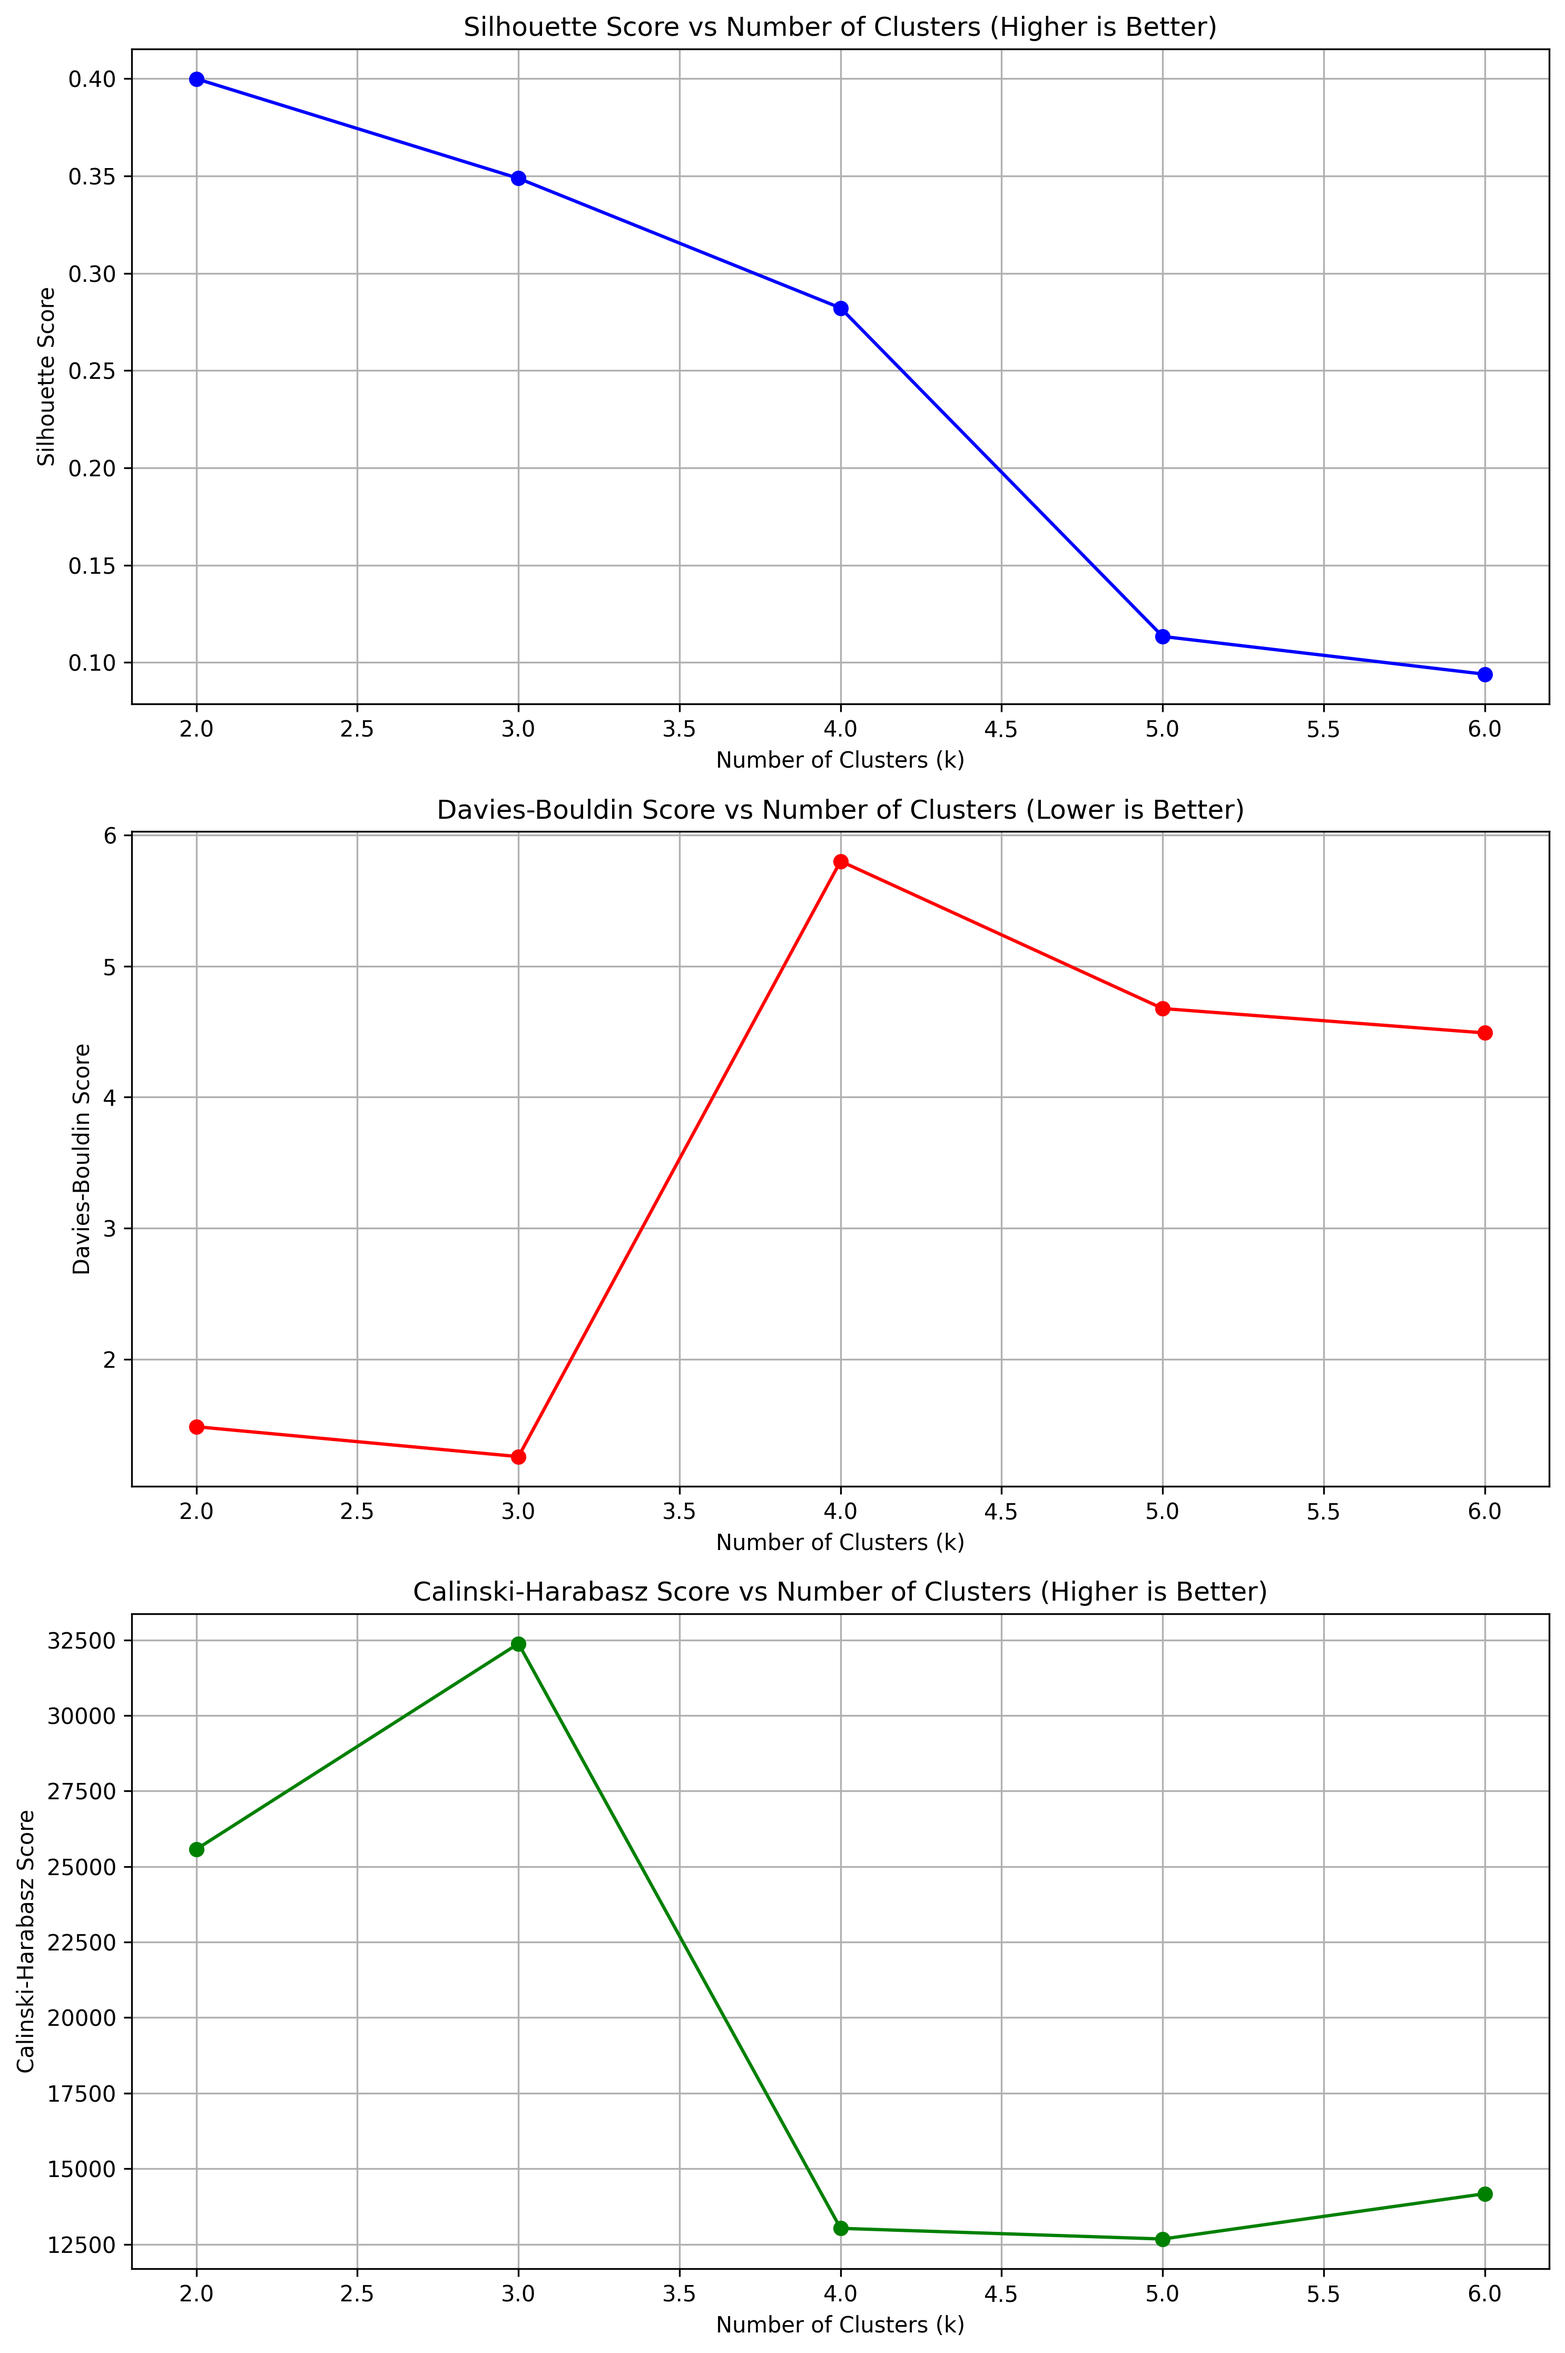
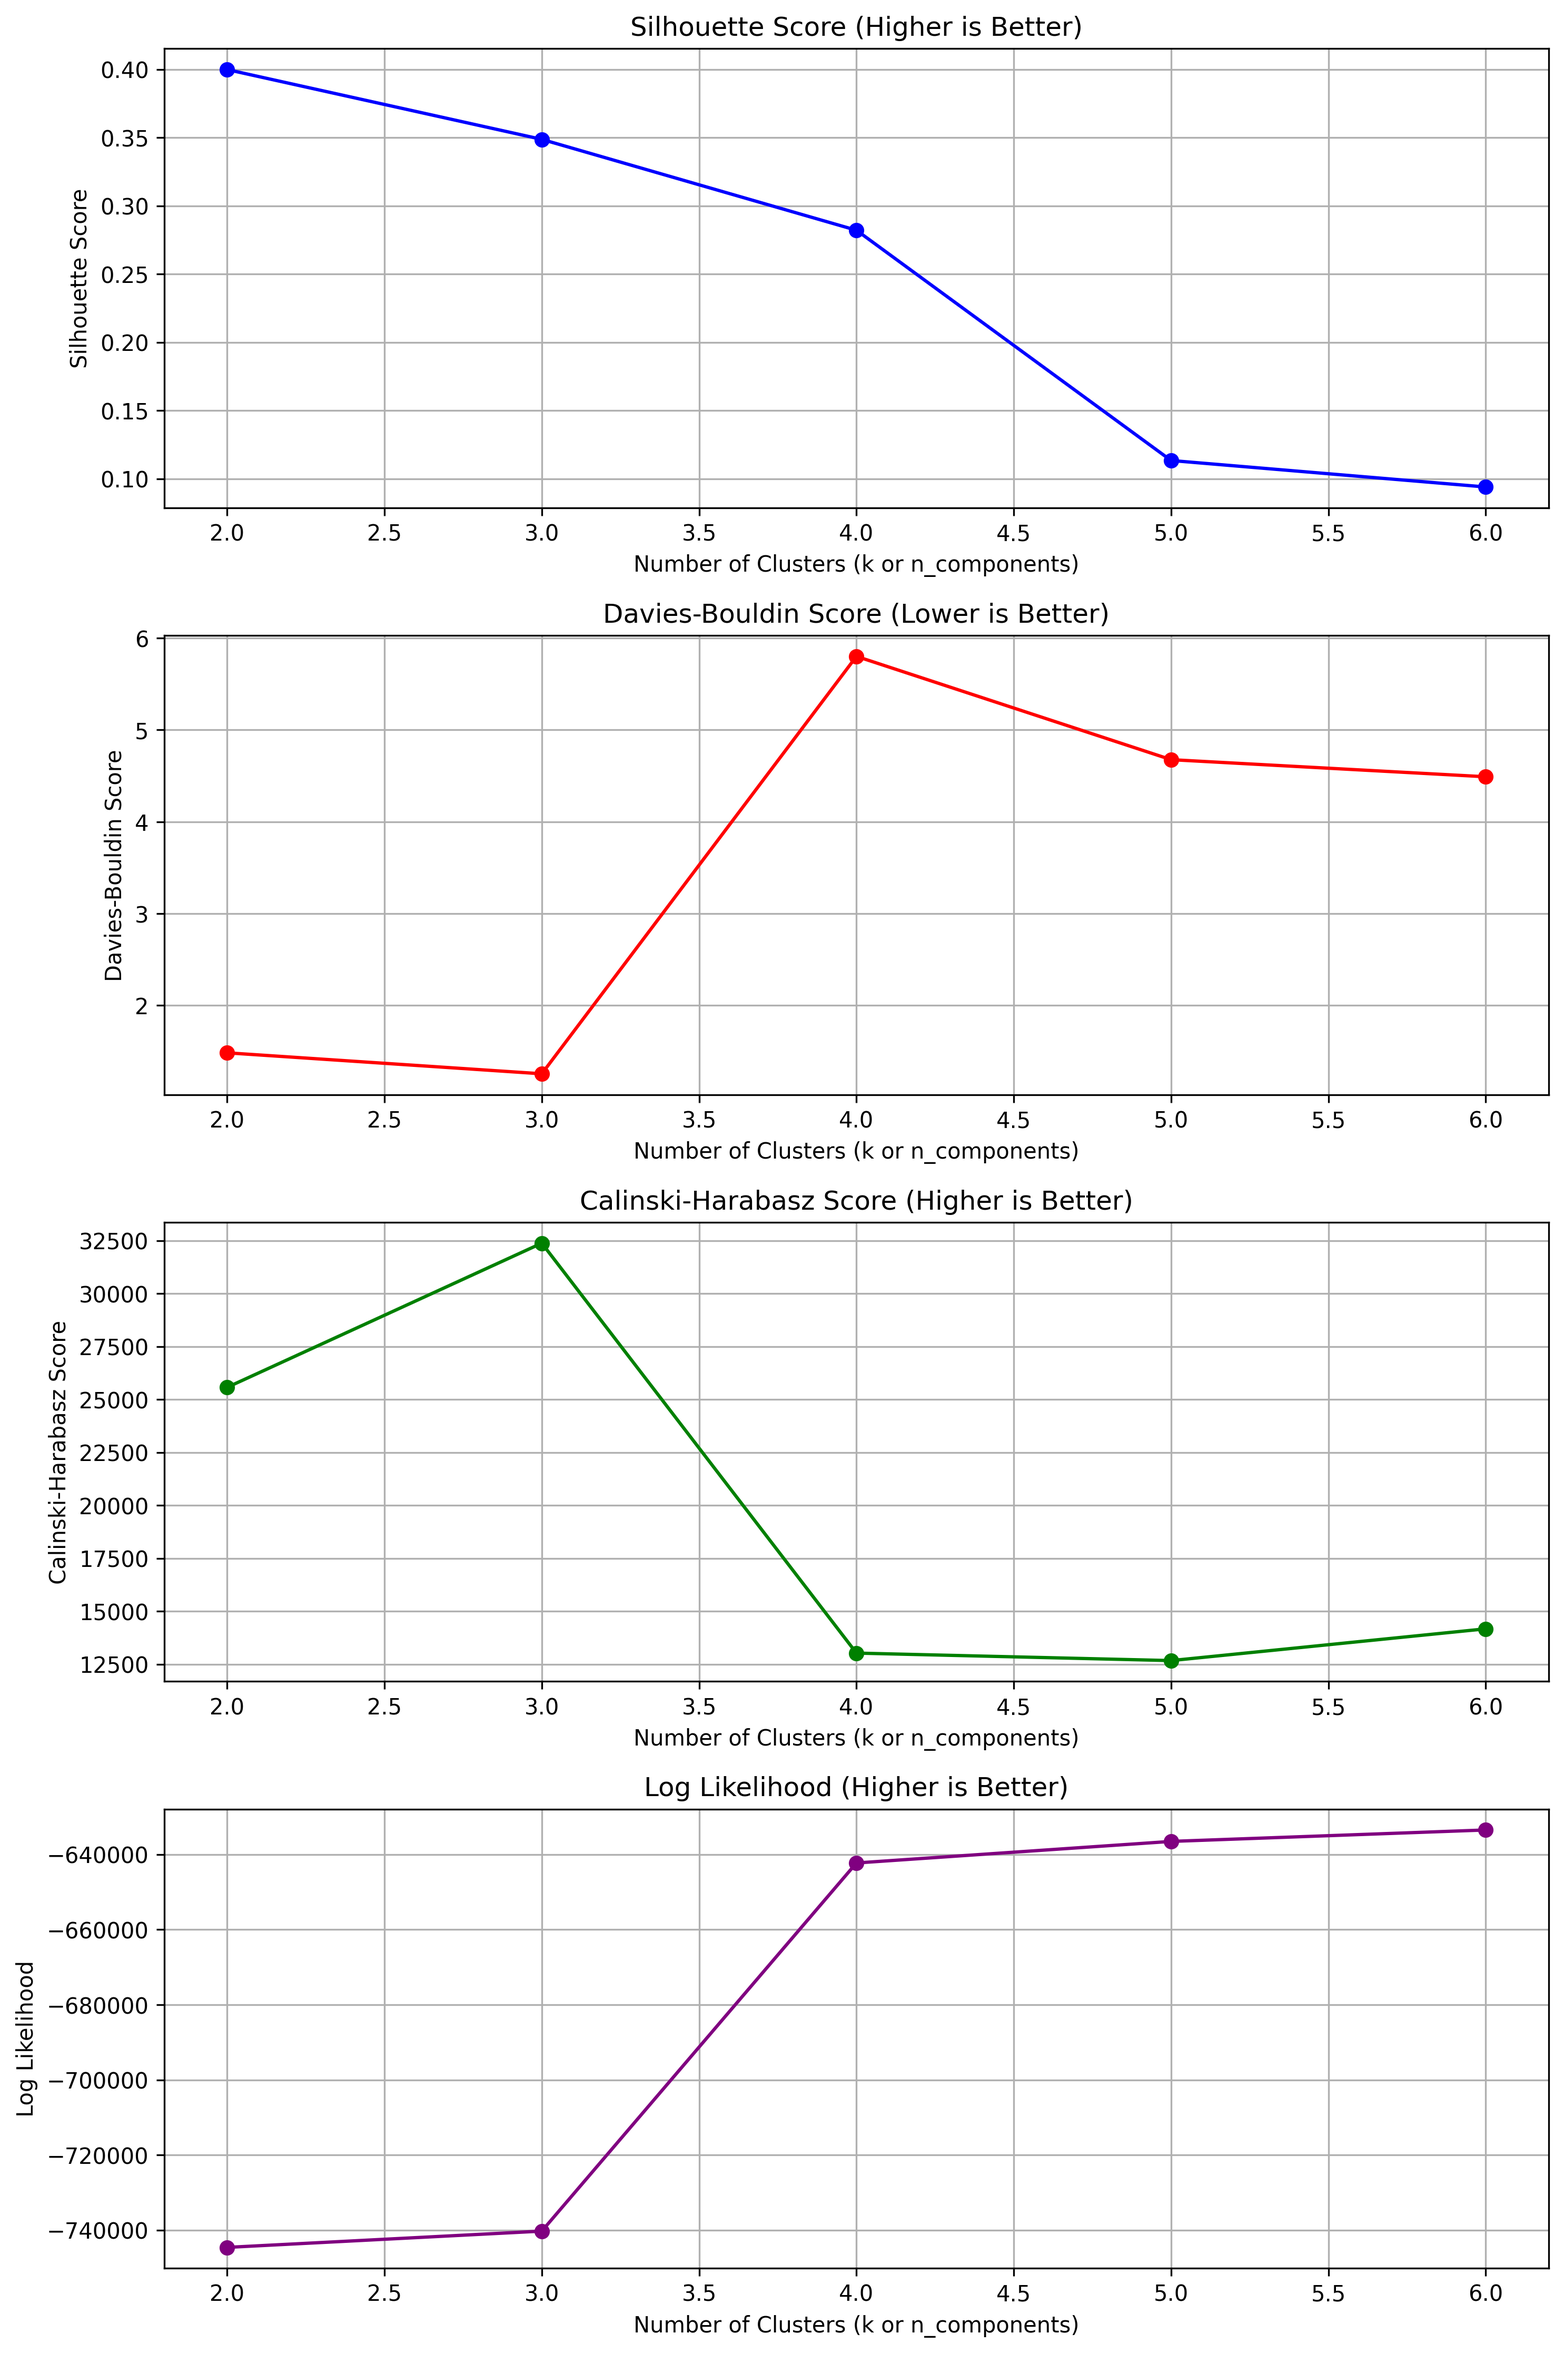
log likelihood and tweaking dbscan

diff --git a/12-dbscan/nyoba_dbscan.py b/12-dbscan/nyoba_dbscan.py
@@ -1,0 +1,148 @@
+import pandas as pd
+from matplotlib import pyplot as plt
+from sklearn.cluster import DBSCAN
+from sklearn.decomposition import PCA
+
+import utils
+from logger import Logger
+from benchmark import Benchmark
+
+utils.widen_output(pd)
+RFMD_final = utils.import_pickle('../08-rfmd-final-processing/rfmd_final.pkl')
+df_clean = utils.import_pickle('../05-outlier/rfmd_clean.pkl')
+state_mapping = utils.import_pickle('../08-rfmd-final-processing/state_mapping.pkl')
+logger = Logger()
+benchmark = Benchmark(logger)
+# Use the already loaded data from your code
+logger.print("Starting DBSCAN clustering analysis...")
+
+# drop code and state columns
+RFMD_final = RFMD_final.drop(columns=['Code', 'State'])
+
+numeric_df = RFMD_final.select_dtypes(include=['float64', 'int64'])
+
+# Since data is already pre-processed, we'll use it directly
+logger.print("Using pre-processed data directly...")
+features = numeric_df.values
+
+
+# Step 2: Find optimal DBSCAN parameters
+# For large datasets (100k), we need to be careful with eps and min_samples values
+# Let's try a few different parameter combinations
+
+# Function to evaluate DBSCAN results
+def evaluate_dbscan(eps, min_samples):
+    benchmark.start_benchmark()
+    db = DBSCAN(eps=eps, min_samples=min_samples, n_jobs=-1).fit(features)
+    benchmark.end_benchmark()
+
+    # Number of clusters (excluding noise points with label -1)
+    n_clusters = len(set(db.labels_)) - (1 if -1 in db.labels_ else 0)
+    n_noise = list(db.labels_).count(-1)
+
+    logger.print(f"DBSCAN with eps={eps}, min_samples={min_samples}:")
+    logger.print(f"  * Number of clusters: {n_clusters}")
+    logger.print(f"  * Number of noise points: {n_noise} ({n_noise / len(db.labels_) * 100:.2f}% of data)")
+
+    return db, n_clusters, n_noise
+
+
+# Try a few parameter combinations
+parameters = [
+    (0.5, 50),  # More restrictive
+    (0.75, 30),  # Medium
+    (1.0, 20)  # More inclusive
+]
+
+results = []
+for eps, min_samples in parameters:
+    db, n_clusters, n_noise = evaluate_dbscan(eps, min_samples)
+    results.append((eps, min_samples, db, n_clusters, n_noise))
+
+# Select the best parameters (this is subjective - we want a reasonable number of clusters with not too many noise points)
+# For this example, let's choose the one with the highest number of clusters but less than 30% noise
+valid_results = [(eps, min_samples, db, n_clusters, n_noise)
+                 for eps, min_samples, db, n_clusters, n_noise in results
+                 if n_noise / len(db.labels_) < 0.3]
+
+if valid_results:
+    # Sort by number of clusters (descending)
+    valid_results.sort(key=lambda x: x[3], reverse=True)
+    best_eps, best_min_samples, best_db, n_clusters, n_noise = valid_results[0]
+    logger.print(f"Selected parameters: eps={best_eps}, min_samples={best_min_samples}")
+else:
+    # If all have high noise, select the one with the lowest noise
+    results.sort(key=lambda x: x[4])
+    best_eps, best_min_samples, best_db, n_clusters, n_noise = results[0]
+    logger.print(
+        f"All parameter combinations resulted in high noise. Selected: eps={best_eps}, min_samples={best_min_samples}")
+
+# Step 3: Apply DBSCAN with the best parameters
+logger.print(f"Running final DBSCAN with eps={best_eps}, min_samples={best_min_samples}...")
+benchmark.start_benchmark()
+best_db = DBSCAN(eps=best_eps, min_samples=best_min_samples, n_jobs=-1).fit(features)
+benchmark.end_benchmark()
+
+# Add cluster labels to the original dataframe
+RFMD_final['Cluster'] = best_db.labels_
+
+# Step 4: Analyze the clusters
+logger.print("\nCluster Analysis:")
+cluster_counts = RFMD_final['Cluster'].value_counts().sort_index()
+for cluster_id, count in cluster_counts.items():
+    if cluster_id == -1:
+        logger.print(f"Noise points: {count} samples ({count / len(RFMD_final) * 100:.2f}%)")
+    else:
+        logger.print(f"Cluster {cluster_id}: {count} samples ({count / len(RFMD_final) * 100:.2f}%)")
+
+# Step 5: Summarize the clusters
+logger.print("\nCluster Characteristics (Mean Values):")
+cluster_summary = RFMD_final.groupby('Cluster').mean()
+logger.print(cluster_summary)
+
+# Step 6: Visualize the clusters using PCA to reduce to 2D
+logger.print("\nVisualizing clusters using PCA...")
+benchmark.start_benchmark()
+pca = PCA(n_components=2)
+pca_result = pca.fit_transform(features)
+
+# Create a DataFrame for easier plotting
+pca_df = pd.DataFrame(data=pca_result, columns=['PC1', 'PC2'])
+pca_df['Cluster'] = best_db.labels_
+
+# Plot the clusters
+plt.figure(figsize=(10, 8))
+plt.scatter(data=pca_df, x='PC1', y='PC2', c='Cluster', cmap='viridis', s=50, alpha=0.5)
+plt.title(f'DBSCAN Clusters (eps={best_eps}, min_samples={best_min_samples})')
+plt.savefig('dbscan_clusters.png')
+
+# Optional: If State information is important, analyze the state distribution in each cluster
+if 'State' in RFMD_final.columns:
+    logger.print("\nTop 3 States in each cluster:")
+    for cluster_id in sorted(set(RFMD_final['Cluster'])):
+        if cluster_id == -1:
+            continue  # Skip noise points
+        cluster_data = RFMD_final[RFMD_final['Cluster'] == cluster_id]
+        state_distribution = cluster_data['State'].value_counts().nlargest(3)
+        logger.print(f"Cluster {cluster_id}:")
+        for state, count in state_distribution.items():
+            percentage = count / len(cluster_data) * 100
+            logger.print(f"  * {state}: {count} samples ({percentage:.2f}%)")
+
+# Step 7: Analyze RFM characteristics of each cluster
+logger.print("\nRFM Analysis by Cluster:")
+rfm_columns = [col for col in RFMD_final.columns if col not in ['Cluster', 'State', 'Code']]
+
+for cluster_id in sorted(set(RFMD_final['Cluster'])):
+    if cluster_id == -1:
+        logger.print(f"Noise Points RFM Profile:")
+    else:
+        logger.print(f"Cluster {cluster_id} RFM Profile:")
+
+    cluster_data = RFMD_final[RFMD_final['Cluster'] == cluster_id]
+    for column in rfm_columns:
+        mean_val = cluster_data[column].mean()
+        logger.print(f"  * {column}: {mean_val:.2f}")
+
+benchmark.end_benchmark()
+logger.print("DBSCAN clustering analysis completed.")

diff --git a/utils.py b/utils.py
@@ -1,5 +1,6 @@
 import pandas
 import pandas as pd
+from django.db.models.expressions import result
 from kmodes.kprototypes import KPrototypes
 from matplotlib.colors import ListedColormap
 import matplotlib.pyplot as plt
@@ -189,9 +190,16 @@ def evaluation_metrics(df, algorithm, cluster_range=None, eps_values=None, min_s
             results['calinski_harabasz'].append(ch_score)
 
     elif algorithm == "GMM":
+        # add log likelihood to the results
+        results['log_likelihood'] = []
+
         for k in cluster_range:
             gmm = GaussianMixture(n_components=k, covariance_type='full', random_state=42)
             labels = gmm.fit_predict(X_numeric)
+
+            # Calculate log likelihood
+            log_likelihood = gmm.score(X_numeric) * len(X_numeric)
+            results['log_likelihood'].append(log_likelihood)
 
             results['algorithm'].append('GMM')
             results['params'].append({'n_components': k})
@@ -229,17 +237,21 @@ def evaluation_metrics(df, algorithm, cluster_range=None, eps_values=None, min_s
 
 def plot_evaluation_metrics(results):
     # Determine whether to use 'k' or 'eps' based on the algorithm
-    if 'k' in results['params'][0]:
+    if 'k' in results['params'][0] or 'n_components' in results['params'][0]:
         results['x_param'] = results['params'].apply(lambda x: x.get('k') or x.get('n_components'))
-        x_label = 'Number of Clusters (k)'
+        x_label = 'Number of Clusters (k or n_components)'
     elif 'eps' in results['params'][0]:
         results['x_param'] = results['params'].apply(lambda x: x.get('eps'))
         x_label = 'Epsilon (eps)'
     else:
-        raise ValueError("Unsupported parameter in 'params'. Expected 'k' or 'eps'.")
+        raise ValueError("Unsupported parameter in 'params'. Expected 'k', 'n_components', or 'eps'.")
+
+    # if results have log_likelihood, subplot = 4
+    num_subplots = 4 if 'log_likelihood' in results else 3
+
 
     # Create subplots
-    fig, axs = plt.subplots(3, 1, figsize=(10, 15))
+    fig, axs = plt.subplots(num_subplots, 1, figsize=(10, 15))
 
     # Plot Silhouette Score (higher is better)
     axs[0].plot(results['x_param'], results['silhouette'], marker='o', linestyle='-', color='blue')
@@ -261,6 +273,14 @@ def plot_evaluation_metrics(results):
     axs[2].set_xlabel(x_label)
     axs[2].set_ylabel('Calinski-Harabasz Score')
     axs[2].grid(True)
+
+    # Plot Log Likelihood (higher is better) if available
+    if 'log_likelihood' in results:
+        axs[3].plot(results['x_param'], results['log_likelihood'], marker='o', linestyle='-', color='purple')
+        axs[3].set_title('Log Likelihood (Higher is Better)')
+        axs[3].set_xlabel(x_label)
+        axs[3].set_ylabel('Log Likelihood')
+        axs[3].grid(True)
 
     plt.tight_layout()
     plt.savefig('evaluation_metrics.png', dpi=300, bbox_inches='tight')

diff --git a/13-gmm/main.py b/13-gmm/main.py
@@ -11,6 +11,7 @@ utils.widen_output(pd)
 RFMD_final = utils.import_pickle('../08-rfmd-final-processing/rfmd_final.pkl')
 RFM_numerical = utils.import_pickle('../08-rfmd-final-processing/rfm_numerical.pkl')
 df_clean = utils.import_pickle('../05-outlier/rfmd_clean.pkl')
+eval_result = utils.import_pickle('rfm_gmm_eval.pkl')
 logger = Logger()
 benchmark = Benchmark(logger)
 # END
@@ -19,7 +20,7 @@ logger.print("Find the optimal number of clusters using the BIC and AIC criteria
 
 gaussian_df = RFM_numerical.copy()
 
-n_components = range(1, 11)
+n_components = range(1, 7)
 model = [GaussianMixture(n_components=i, random_state=42).fit(gaussian_df) for i in n_components]
 
 # AICS (Akaike Information Criterion)
@@ -69,7 +70,7 @@ data_with_clusters['Cluster'] = labels
 # display cluster unique values on cluster with categorical
 logger.print("GMM cluster summary:")
 logger.print(utils.summarize_cluster(gmm_data_with_categorical))
-
+#
 # cluster summary with raw data
 logger.print("GMM cluster summary (Original Data):")
 logger.print(utils.summarize_cluster(gmm_rfm_raw, False))
@@ -82,6 +83,7 @@ eval_results = evaluation_metrics(
     algorithm="GMM",
     cluster_range=range(2, 7)
 )
+
 logger.print("Evaluation results:")
 logger.print(eval_results)
 
